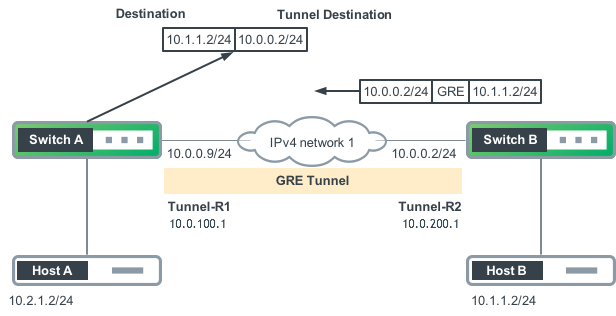
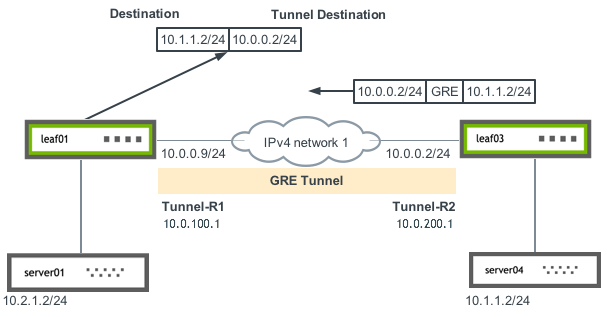
updated graphic and configs

diff --git a/content/cumulus-linux-51/Layer-3/GRE-Tunneling.md b/content/cumulus-linux-51/Layer-3/GRE-Tunneling.md
@@ -4,7 +4,7 @@ author: NVIDIA
 weight: 970
 toc: 3
 ---
-Generic Routing Encapsulation (GRE) is a tunneling protocol that encapsulates network layer protocols inside virtual point-to-point links over an Internet Protocol network. The tunnel source and tunnel destination addresses at each endpoint identify the two endpoints.
+[GRE](## "Generic Routing Encapsulation") is a tunneling protocol that encapsulates network layer protocols inside virtual point-to-point links over an Internet Protocol network. The tunnel source and tunnel destination addresses on each side identify the two endpoints.
 
 GRE packets travel directly between the two endpoints through a virtual tunnel. As a packet comes across other routers, there is no interaction with its payload; the routers only parse the outer IP packet. When the packet reaches the endpoint of the GRE tunnel, the switch de-encapsulates the outer packet, parses the payload, then forwards it to its ultimate destination.
 
@@ -32,37 +32,45 @@ The following configuration example shows the commands used to set up a bidirect
 
 {{< img src = "/images/cumulus-linux/gre-tunnel-config.png" >}}
 
-**Tunnel-R1 commands:**
+{{< tabs "TabID35 ">}}
+{{< tab "NVUE Commands">}}
+
+{{< tabs "TabID38 ">}}
+{{< tab "leaf01 ">}}
 
 ```
-cumulus@switch:~$ sudo ip tunnel add Tunnel-R2 mode gre remote 10.0.0.2 local 10.0.0.9 ttl 255
-cumulus@switch:~$ sudo ip link set Tunnel-R2 up
-cumulus@switch:~$ sudo ip addr add 10.0.100.1 dev Tunnel-R2
-cumulus@switch:~$ sudo ip route add 10.0.100.0/24 dev Tunnel-R2
+cumulus@leaf01:~$ nv set
+cumulus@leaf01:~$ nv config apply
 ```
 
-**Tunnel-R2 commands:**
+{{< /tab >}}
+{{< tab "leaf03 ">}}
 
 ```
-cumulus@switch:~$ sudo ip Tunnel add Tunnel-R1 mode gre remote 10.0.0.9 local 10.0.0.2 ttl 255
-cumulus@switch:~$ sudo ip link set Tunnel-R1 up
-cumulus@switch:~$ sudo ip addr add 10.0.200.1 dev Tunnel-R1
-cumulus@switch:~$ sudo ip route add 10.0.200.0/24 dev Tunnel-R1
+cumulus@leaf03:~$ nv set
+cumulus@leaf03:~$ nv config
 ```
 
-To apply the GRE tunnel configuration automatically at reboot, instead of running the commands from the command line (as above), you can add the following commands directly in the `/etc/network/interfaces` file.
+{{< /tab >}}
+{{< /tabs >}}
+
+{{< /tab >}}
+{{< tab "Linux Commands ">}}
+
+{{< tabs "TabID58 ">}}
+{{< tab "leaf01 ">}}
+
+Edit the `/etc/network/interfaces` file to add the following configuration:
 
 ```
-cumulus@switch:~$ sudo nano /etc/network/interfaces
+cumulus@leaf01:~$ sudo nano /etc/network/interfaces
 ...
-# Tunnel-R1 configuration
 auto swp1 #underlay interface for tunnel
 iface swp1
     link-speed 10000
     link-duplex full
     link-autoneg off
     address 10.0.0.9/24
-
 auto Tunnel-R2
 iface Tunnel-R2
     tunnel-mode gre
@@ -71,15 +79,22 @@ iface Tunnel-R2
     tunnel-ttl 255
     address 10.0.100.1
     up ip route add 10.0.100.0/24 dev Tunnel-R2
+```
 
-# Tunnel-R2 configuration
+{{< /tab >}}
+{{< tab "leaf03 ">}}
+
+Edit the `/etc/network/interfaces` file to add the following configuration:
+
+```
+cumulus@leaf03:~$ sudo nano /etc/network/interfaces
+...
 auto swp1 #underlay interface for tunnel
 iface swp1
     link-speed 10000
     link-duplex full
     link-autoneg off
     address 10.0.0.2/24
-
 auto Tunnel-R1
 iface Tunnel-R1
     tunnel-mode gre
@@ -90,9 +105,15 @@ iface Tunnel-R1
     up ip route add 10.0.200.0/24 dev Tunnel-R1
 ```
 
+{{< /tab >}}
+{{< /tabs >}}
+
+{{< /tab >}}
+{{< /tabs >}}
+
 ## Verify GRE Tunnel Settings
 
-To check GRE tunnel settings, run the `ip tunnel show` command or the `ifquery --check` command. For example:
+To check GRE tunnel settings, run the the NVUE `nv show ???` command, or the Linux `ip tunnel show` or `ifquery --check` command. For example:
 
 ```
 cumulus@switch:~$ ip tunnel show
@@ -121,11 +142,9 @@ cumulus@switch:~$ sudo ip tunnel del Tunnel-R2 mode gre remote 10.0.0.2 local 10
 ```
 
 {{%notice note%}}
-
 You can delete a GRE tunnel directly from the `/etc/network/interfaces` file instead of using the `ip tunnel del` command. Make sure you run the `ifreload - a` command after you update the interfaces file.
 
 This action is disruptive as the switch removes the tunnel, then recreates it with the new settings.
-
 {{%/notice%}}
 
 ## Change GRE Tunnel Settings
@@ -137,7 +156,5 @@ cumulus@switch:~$ sudo ip tunnel change Tunnel-R2 mode gre local 10.0.0.2 remote
 ```
 
 {{%notice note%}}
-
 You can make changes to GRE tunnel settings directly in the `/etc/network/interfaces` file instead of using the `ip tunnel change` command. Make sure you run the `ifreload - a` command after you update the interfaces file.
-
 {{%/notice%}}

diff --git a/content/cumulus-linux-51/Whats-New/_index.md b/content/cumulus-linux-51/Whats-New/_index.md
@@ -17,9 +17,22 @@ Cumulus Linux 5.1.0 supports new platforms, provides bug fixes, and contains sev
 ### Platforms
 
 - NVIDIA SN3800(100G Spectrum-3)
+- 1G supported for all Spectrum-2 and Spectrum-3 switches
 
 ### New Features and Enhancements
 
--
--
--
+- {{<link url="GRE-Tunneling" text="GRE tunneling">}}
+- Refactor port configuration
+- Adaptive routing with RoCE
+- Support for custom TLV LLDP messages
+- Support for dynamic LLDP TLV advertisements
+- GTP hashing support
+- Support for layer 3 VXLAN interfaces
+- VXLAN port isolation on Spectrum-3 switches
+- Simplified EVPN configuration
+- Warmboot supported on bonds
+- NVUE enhancements include:
+  - Support control of IPv6 ND processes
+  - Flexible snippet architecture
+  - EVPN, PBR show commands
+  - Logging improvements
